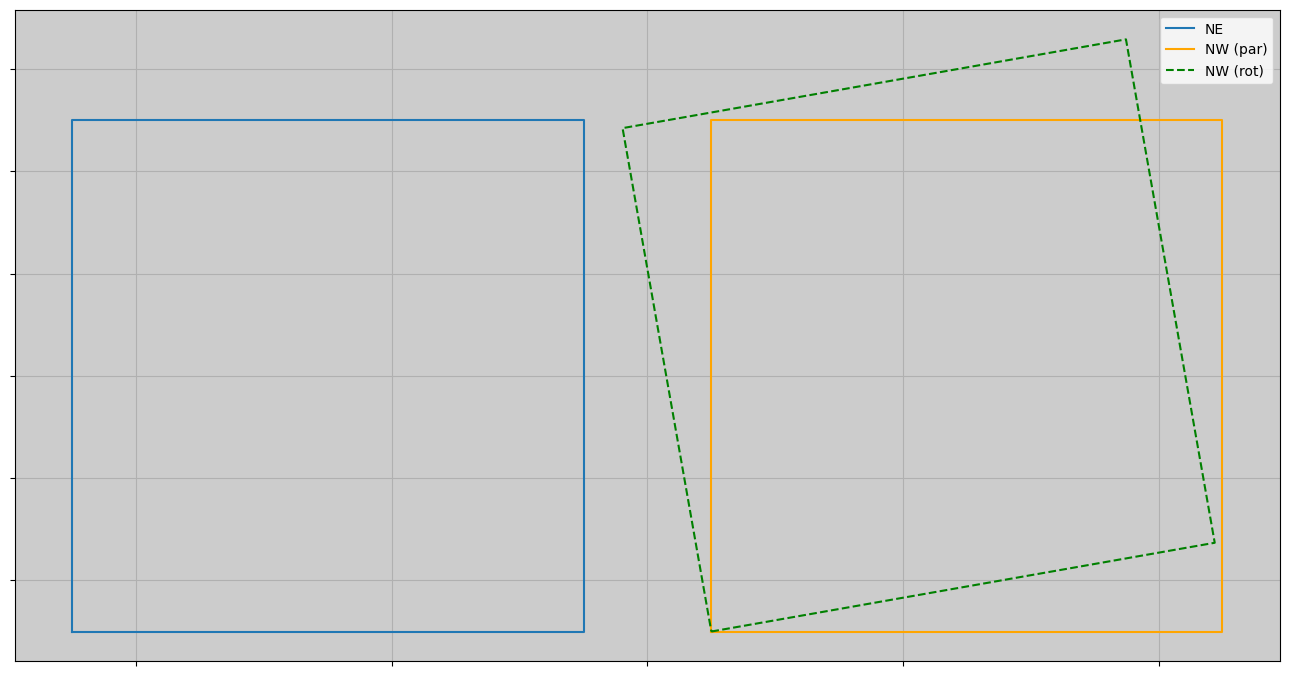
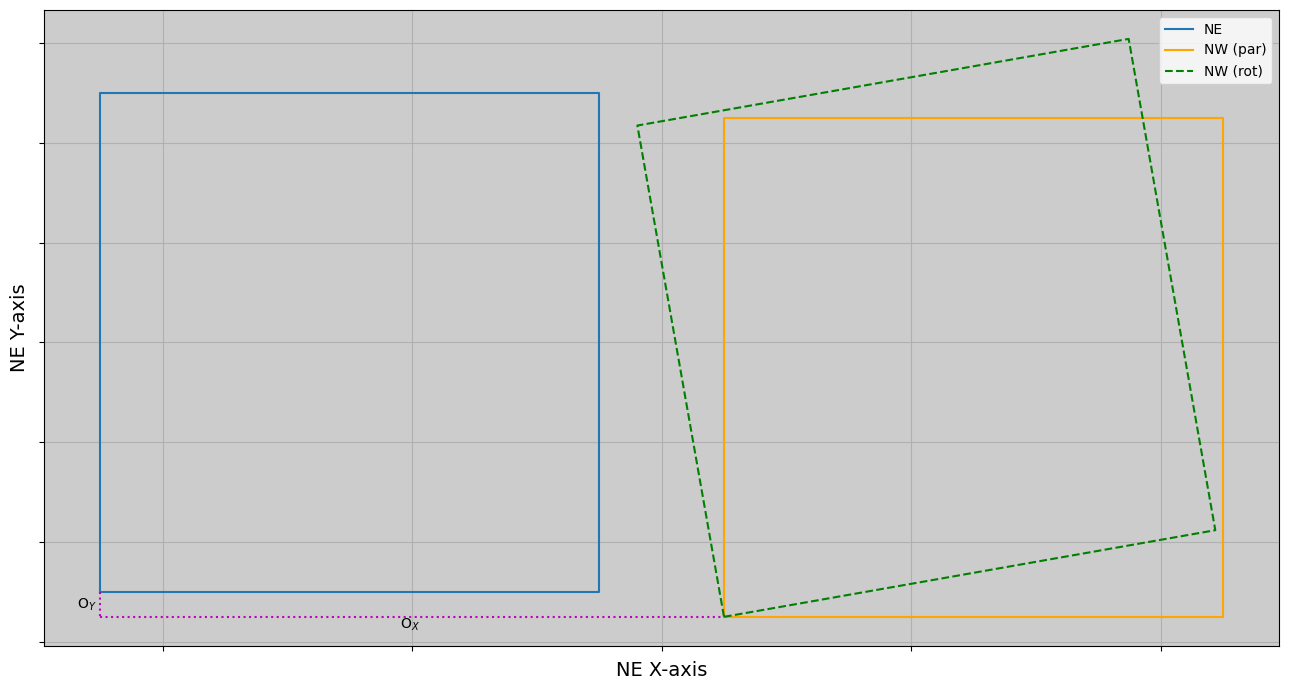
added Y-shift between sensors. added dotted line marking X- and Y-shifts

diff --git a/analysis/20260303--CFHT_CDmat_vs_CRPIX/transform_diagrams.py b/analysis/20260303--CFHT_CDmat_vs_CRPIX/transform_diagrams.py
@@ -350,33 +350,51 @@ square_vtx = np.array([(LL, BB),      # lower-left
 ne_sensor = qsquare.QSquare()
 nw_sensor = qsquare.QSquare()
 
-#print("BEFORE: %s" % ne_sensor.get_vtx())
+#print("BEFORE: %s" % ne_sensor.get_vertices())
 ne_sensor.set_origin('lower-left')
 nw_sensor.set_origin('lower-left')
-#print("AFTER:  %s" % ne_sensor.get_vtx())
-#print(ne_sensor.get_vtx())
+#print("AFTER:  %s" % ne_sensor.get_vertices())
+#print(ne_sensor.get_vertices())
 
 #Rz = ne_sensor._vector_zrot(r_theta)
 #vtx = ne_sensor._update()
 #ne_sensor.set_rotation_rad(r_theta)
-#print(ne_sensor.get_vtx())
-#print(nw_sensor.get_vtx())
+#print(ne_sensor.get_vertices())
+#print(nw_sensor.get_vertices())
 
+## Detector horizontal spacing:
 gutter_frac = 0.25
 qq_xshift = 0.5 * diam * (1.0 + gutter_frac)
 ne_sensor.set_position_rel(-qq_xshift, 0.0)
 nw_sensor.set_position_rel(+qq_xshift, 0.0)
 #ne_sensor = square_vtx - qq_xshift
 #nw_sensor = square_vtx + qq_xshift
-#print(ne_sensor.get_vtx())
+#print(ne_sensor.get_vertices())
+
+## Detector vertical spacing:
+ynudge = gutter_frac / 5.
+nw_sensor.set_position_rel(0.0, -ynudge)
 
 ## Get NW coords before/after rotation:
-nw_par_vtx = nw_sensor.get_vtx()
+nw_par_vtx = nw_sensor.get_vertices()
 r_theta = np.radians(45.0)
 r_theta = np.radians(10.0)
 #r_theta = np.radians( 5.0)
 nw_sensor.set_rotation_rad(r_theta)
-nw_rot_vtx = nw_sensor.get_vtx()
+nw_rot_vtx = nw_sensor.get_vertices()
+
+## Vertical and horizontal offsets:
+ne_lowerleft = ne_sensor.get_vertex('lower-left')
+nw_lowerleft = nw_sensor.get_vertex('lower-left')
+xshift, yshift = nw_lowerleft - ne_lowerleft
+
+## Offset steps for plotting:
+llsteps = [ne_lowerleft.copy()]
+llsteps.append(ne_lowerleft + np.array([0, yshift]))
+llsteps.append(nw_lowerleft) # - np.array([xshift, 0]))
+#llsteps_vtx = np.array(llsteps).T
+llsteps1 = np.array(llsteps[:2])
+llsteps2 = np.array(llsteps[1:])
 
 ##--------------------------------------------------------------------------##
 ## Plot config:
@@ -414,22 +432,30 @@ ax1.patch.set_facecolor((0.8, 0.8, 0.8))
 ax1.grid(True)
 #ax1.axis('off')
 
-# Disable tick labels:
+## Disable tick labels:
 ax1.set_xticklabels([])
 ax1.set_yticklabels([])
 
+## Axis labeling:
+ax1.set_xlabel("NE X-axis", fontsize=14)
+ax1.set_ylabel("NE Y-axis", fontsize=14)
 
-# CCD boundary colors:
+## CCD boundary colors:
 #ne_par_color = '
 nw_par_color = 'orange'
 nw_rot_color = 'g'
 
-ax1.plot(*ne_sensor.get_vtx(), label='NE')
-#ax1.plot(*nw_sensor.get_vtx(), label='NW')
+ax1.plot(*ne_sensor.get_vertices(), label='NE')
+#ax1.plot(*nw_sensor.get_vertices(), label='NW')
 ax1.plot(*nw_par_vtx, color=nw_par_color, label='NW (par)')
 ax1.plot(*nw_rot_vtx, color=nw_rot_color, ls='--', label='NW (rot)')
 #ax1.plot(*nw_sensor)
 ax1.legend(loc='best')
+
+ax1.plot(*llsteps1.T, c='m', ls=':')
+ax1.text(*np.average(llsteps1, axis=0), 'O$_Y$  ', ha='right', va='center')
+ax1.plot(*llsteps2.T, c='m', ls=':')
+ax1.text(*np.average(llsteps2, axis=0), 'O$_X$  ', ha='center', va='top')
 
 ## Polar scatter:
 #skw = {'lw':0, 's':15}
